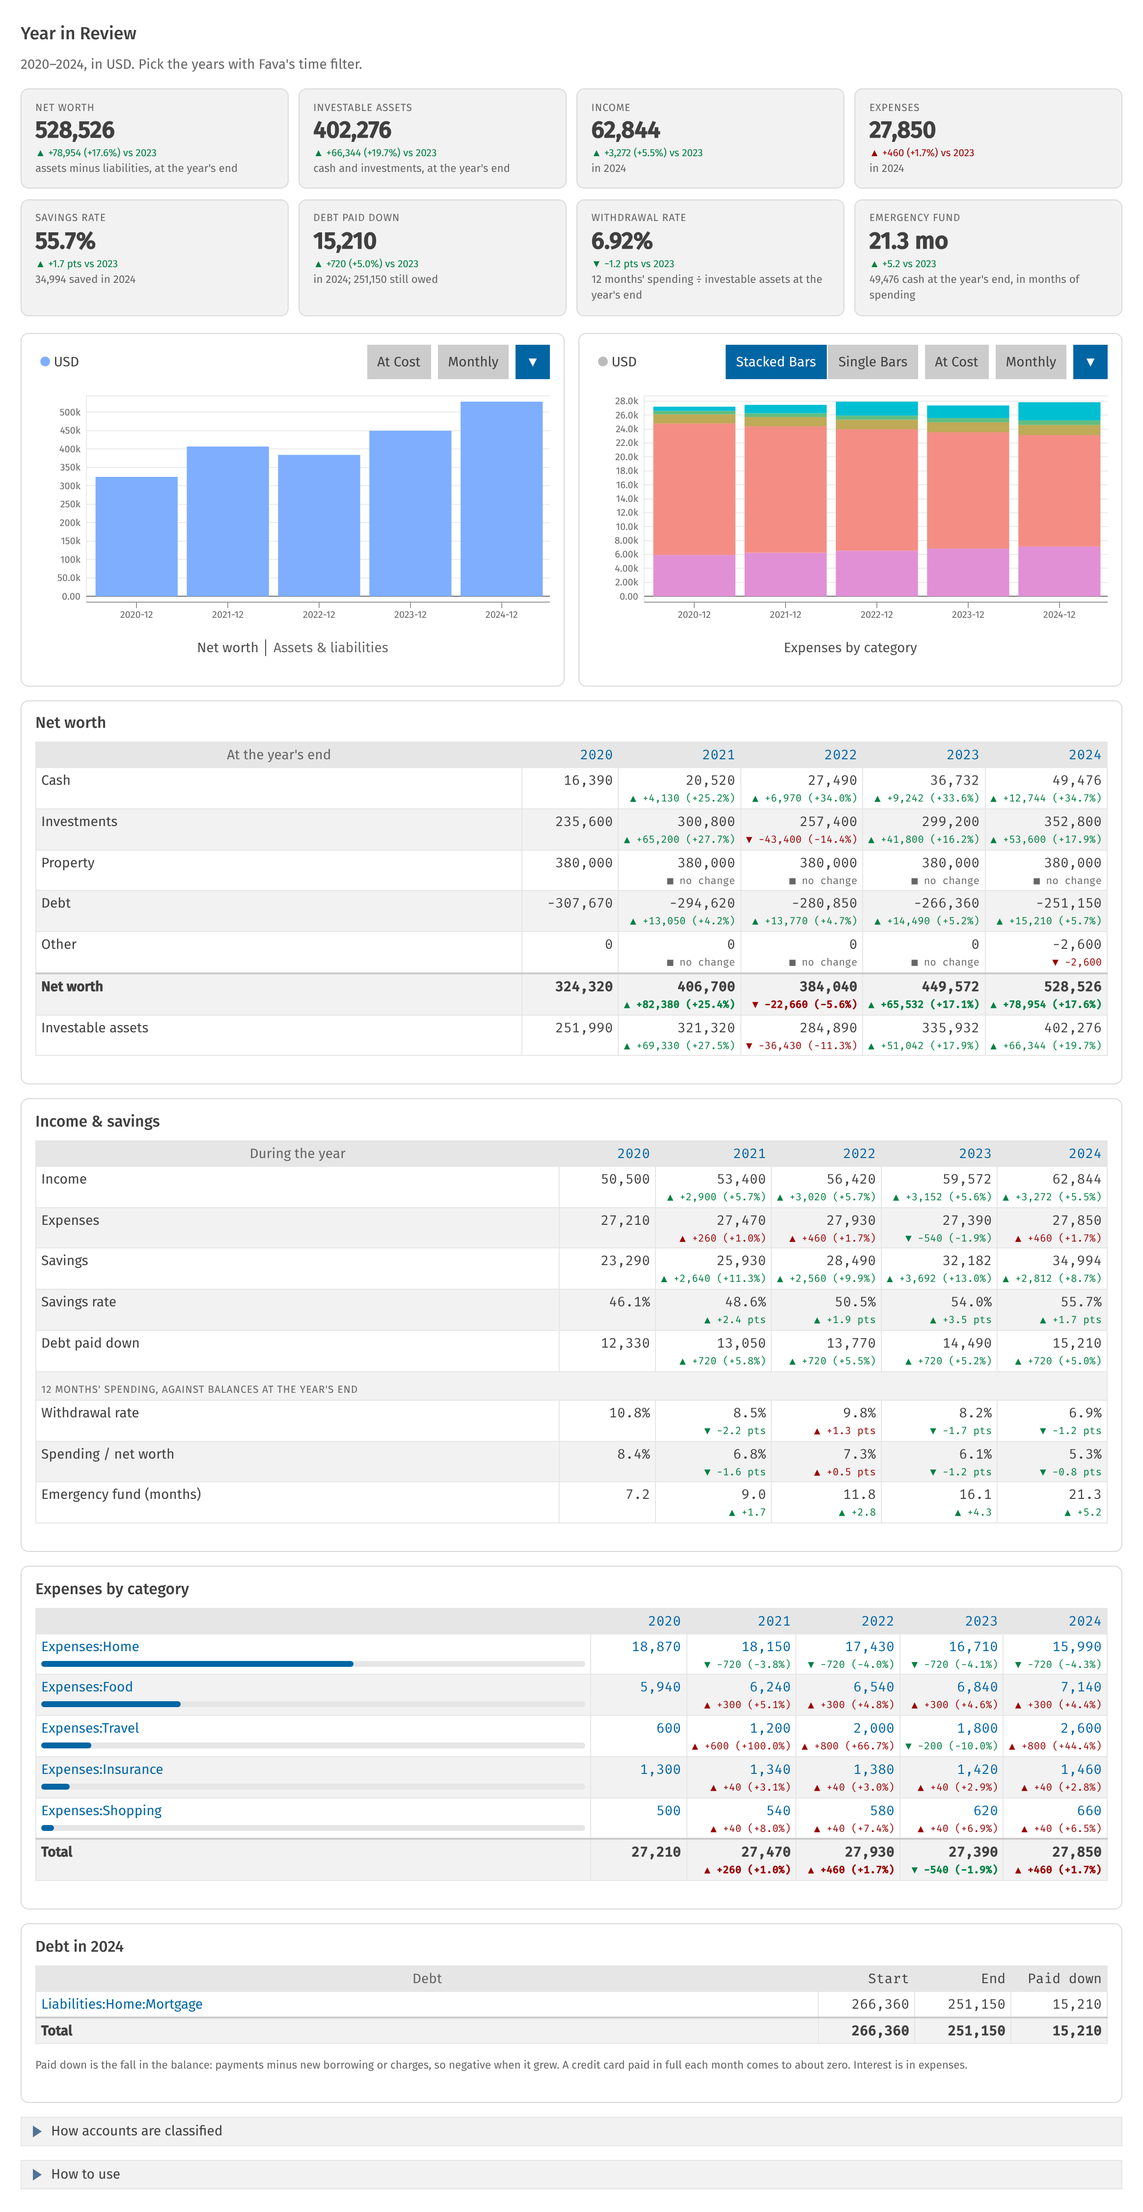
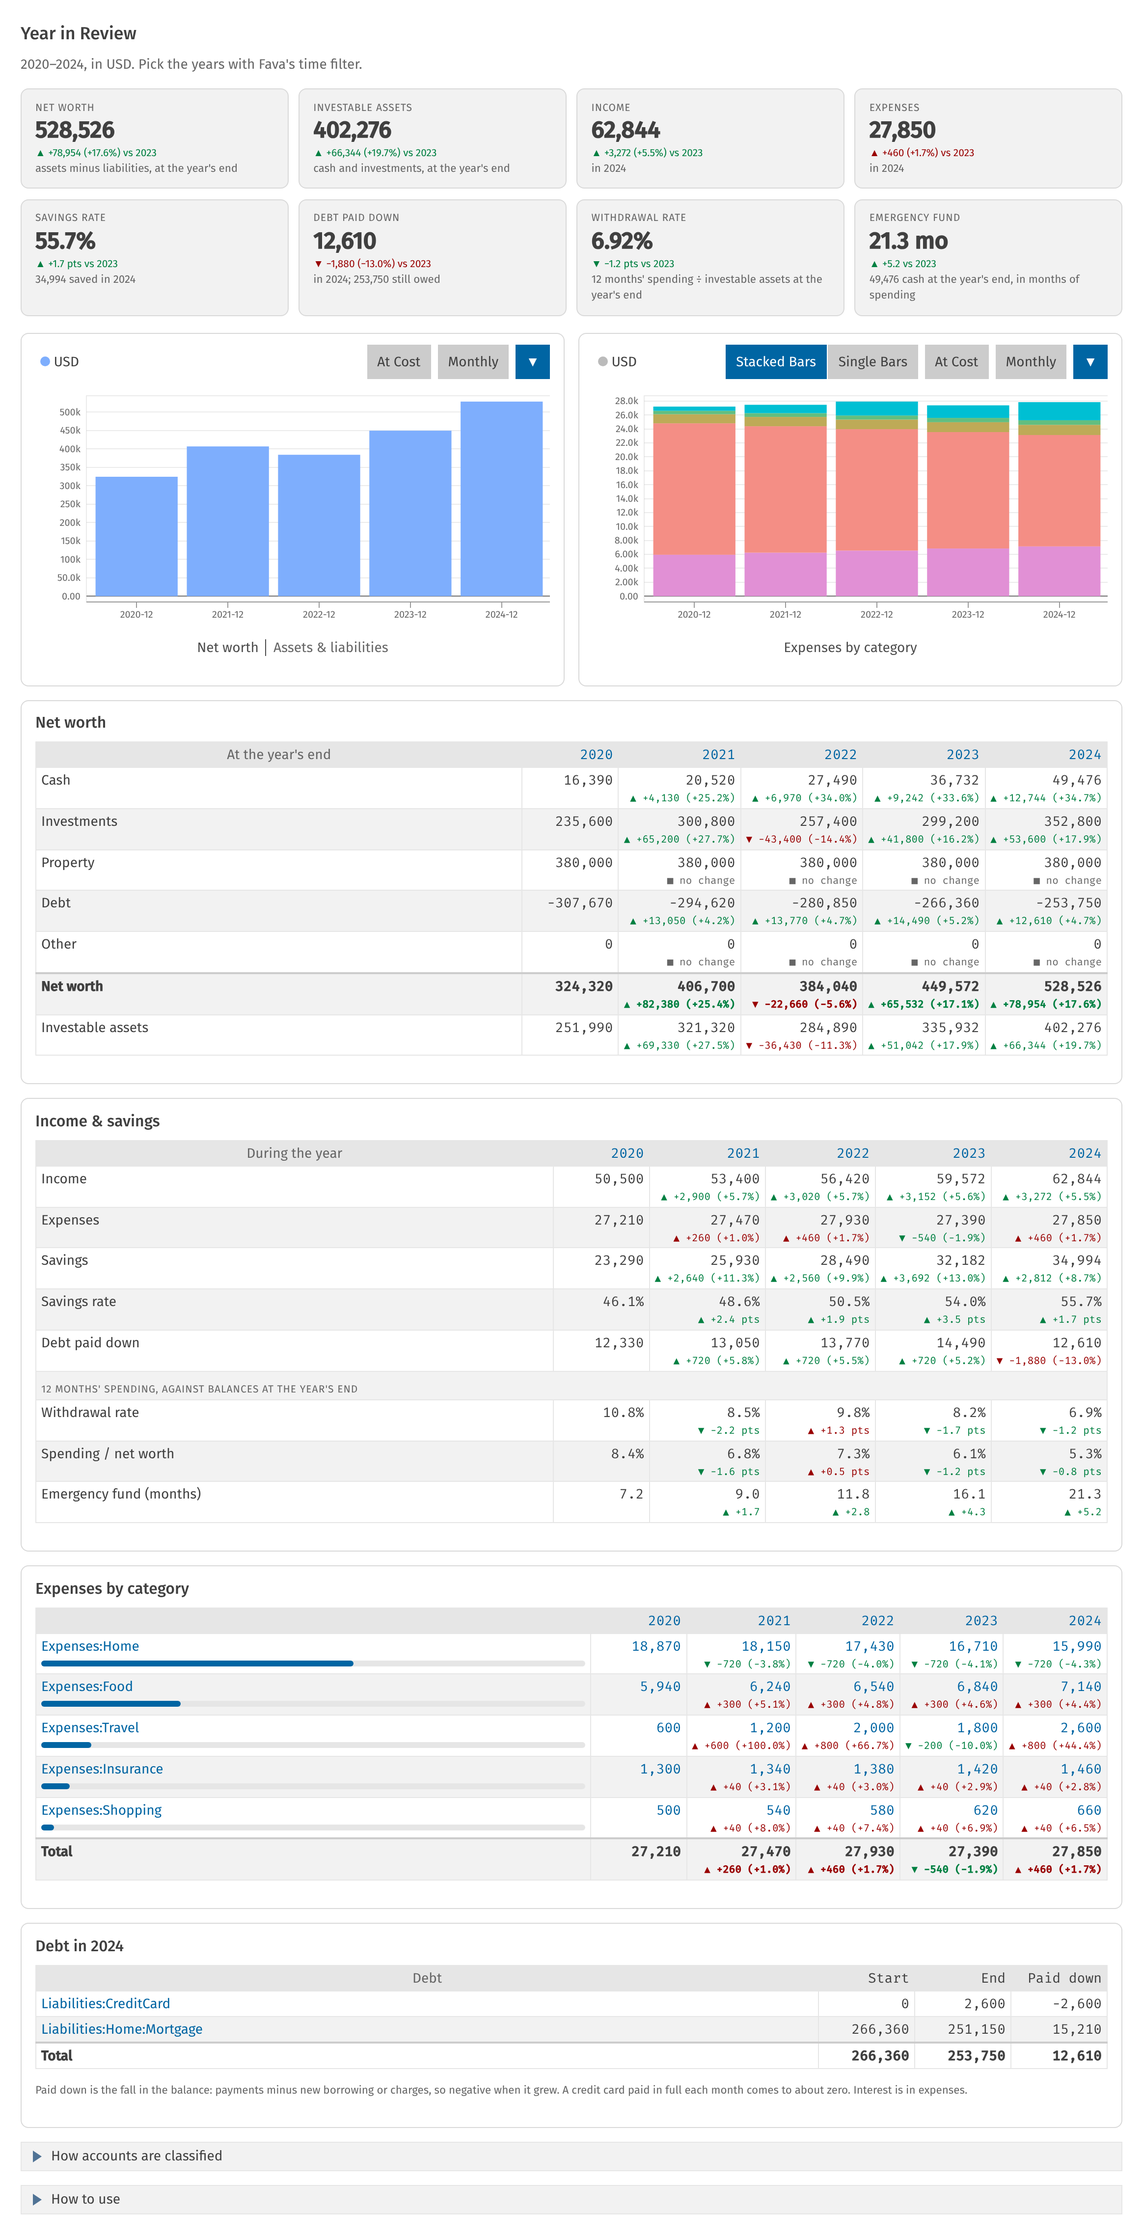
Cash Flow: cards stay financing, periods end today, 12-month emergency fund
A credit card's financing line is its net change, so a card paid in full nets
to about zero without declaring it operating; the example ledger no longer
does. A time filter ends today at the latest. The emergency fund uses the 12
months of spending up to the period's end, whatever the period, and names the
savings accounts it leaves out.

Claude-Session: https://claude.ai/code/session_01KmgJLZjK5mttXsmcq9tafp

diff --git a/src/beancount_sg/ext/cash_flow/templates/CashFlow.html b/src/beancount_sg/ext/cash_flow/templates/CashFlow.html
@@ -88,10 +88,10 @@
   </div>
   {% set months = result.months_of_cash() %}
   {% set spendable = result.months_of_cash(savings=false) %}
-  <div class="cf-card" title="Cash at the end, divided by the period's average monthly spending">
+  <div class="cf-card" title="Cash at the end, divided by average monthly spending over the 12 months up to it ({{ result.trailing_start }} to {{ result.end - extension.one_day }})">
     <div class="cf-card-label">Emergency fund</div>
     <div class="cf-card-value">{% if months is none %}&mdash;{% else %}{{ '%.1f'|format(months) }} mo{% endif %}</div>
-    <div class="cf-note">of spending ({{ extension.balance(result.monthly_expenses) }}/mo){% if spendable is not none %}; {{ '%.1f'|format(spendable) }} mo without savings accounts{% endif %}</div>
+    <div class="cf-note">of the last 12 months' spending ({{ extension.balance(result.monthly_expenses) }}/mo){% if spendable is not none and result.savings_accounts %}; {{ '%.1f'|format(spendable) }} mo without {{ result.savings_accounts|join(', ') }}{% endif %}</div>
   </div>
 </div>
 
@@ -180,20 +180,20 @@
 <details>
   <summary>How to use</summary>
   <ul>
-    <li>The period is Fava's time filter, or the last 12 months (this month and the 11 before)
-      without one. Fava's account and advanced filters apply, as on Fava's own reports.</li>
+    <li>The period is Fava's time filter, up to today, or the last 12 months (this month and the
+      11 before) without one. Fava's account and advanced filters apply, as on Fava's own
+      reports.</li>
     <li>Each line is an account's effect on cash: money in is positive, money out negative. So
       investing −9,640 means 9,640 more was invested than withdrawn, and financing −5,000 that
       5,000 more was repaid than borrowed. Only operating cash is green (a surplus) or red (a
       deficit): investing and financing aren't good or bad by their sign. Income and expenses are
       rolled up to their top-level category, e.g. <code>Expenses:Food</code>.</li>
-    <li>The <em>emergency fund</em> is cash at the end, in months of the period's average spending;
-      also without accounts named Savings, i.e. the money on hand to spend.</li>
-    <li><strong>Declare credit cards <code>operating</code></strong>: the default for every
-      liability, cards included, is <code>financing</code>, so card spending would show as borrowing
-      (financing in) and paying the card as repaying it (financing out). As <code>operating</code>,
-      a card's balance change sits beside the spending it paid for, and financing is left to
-      loans.</li>
+    <li>The <em>emergency fund</em> is cash at the end, in months of average spending over the 12
+      months up to it, whatever the period; also without accounts named Savings, i.e. the money
+      on hand to spend.</li>
+    <li>Credit cards are <code>financing</code>, like any liability: spending on a card is in
+      operating, by category, and the card's line in financing is its net change. A card paid in
+      full nets to about zero; one carrying a balance shows as borrowing or repaying it.</li>
     <li>Values are in the first operating currency, rounded to whole units: flows at each
       transaction's date, cash at market value at the start and end. A <em>change in value</em>
       line shows any difference, e.g. from exchange rates.</li>

diff --git a/src/beancount_sg/ext/cash_flow/statement.py b/src/beancount_sg/ext/cash_flow/statement.py
@@ -16,9 +16,11 @@ value then: the difference, if any (e.g. from exchange rates moving while cash i
 held in another currency), is shown as its own line, so the statement always
 reconciles.
 
-The statement also totals the period's spending (its expense accounts), for the
-emergency fund: how many months of average spending cash at the end covers, with
-and without cash accounts named Savings.
+The statement also totals the spending (expense accounts) over the 12 months up
+to the period's end, for the emergency fund: how many months of that average
+spending cash at the end covers, with and without cash accounts named Savings.
+It uses 12 months whatever the period, so a short or partial period doesn't make
+it seasonal.
 """
 
 from __future__ import annotations
@@ -51,7 +53,6 @@ ACTIVITIES = (OPERATING, INVESTING, FINANCING)
 ONE_DAY = datetime.timedelta(days=1)
 # Cash accounts that hold savings, rather than money to spend, by name.
 SAVINGS_NAMES = re.compile(r"savings", re.IGNORECASE)
-DAYS_PER_MONTH = Decimal("365.25") / 12
 
 
 @dataclass
@@ -71,8 +72,8 @@ class Statement:
     # Cash accounts' values at the start and end.
     cash_start: dict[str, Decimal] = field(default_factory=dict)
     cash_end: dict[str, Decimal] = field(default_factory=dict)
-    # Spending over the period: the expense accounts' total.
-    expenses: Decimal = Decimal(0)
+    # Spending over the 12 months up to the end: the expense accounts' total.
+    trailing_expenses: Decimal = Decimal(0)
     unconverted: set[str] = field(default_factory=set)
 
     def lines(self, activity: str) -> list[tuple[str, Decimal]]:
@@ -102,24 +103,35 @@ class Statement:
         return self.cash_end_total - self.cash_start_total - self.net_change
 
     @property
+    def trailing_start(self) -> datetime.date:
+        """The first day of the 12 months up to the end."""
+        return _year_before(self.end)
+
+    @property
     def monthly_expenses(self) -> Decimal:
-        """Average spending per month over the period."""
-        return self.expenses / (Decimal((self.end - self.begin).days) / DAYS_PER_MONTH)
+        """Average spending per month over the 12 months up to the end."""
+        return self.trailing_expenses / 12
+
+    @property
+    def savings_accounts(self) -> list[str]:
+        """The cash accounts named Savings with a balance at the end."""
+        return sorted(
+            account
+            for account, value in self.cash_end.items()
+            if value and SAVINGS_NAMES.search(account)
+        )
 
     def months_of_cash(self, *, savings: bool = True) -> Decimal | None:
-        """How many months of the period's average spending cash at the end covers.
+        """How many months of average spending (see `monthly_expenses`) cash at the end covers.
 
         Without ``savings``, only cash accounts not named Savings: the money on
         hand to spend.
         """
         if self.monthly_expenses <= 0:
             return None
+        excluded = set() if savings else set(self.savings_accounts)
         cash = sum(
-            (
-                value
-                for account, value in self.cash_end.items()
-                if savings or not SAVINGS_NAMES.search(account)
-            ),
+            (value for account, value in self.cash_end.items() if account not in excluded),
             Decimal(0),
         )
         return cash / self.monthly_expenses
@@ -132,6 +144,13 @@ class Statement:
             for account in self.cash_start.keys() | self.cash_end.keys()
             if self.cash_start.get(account) or self.cash_end.get(account)
         )
+
+
+def _year_before(date: datetime.date) -> datetime.date:
+    """The same day a year earlier (February 28th for February 29th)."""
+    if (date.month, date.day) == (2, 29):
+        return date.replace(year=date.year - 1, day=28)
+    return date.replace(year=date.year - 1)
 
 
 def role_of(account: str, roles: Mapping[str, Role], account_types: AccountTypes) -> str:
@@ -160,6 +179,7 @@ def statement(
     result = Statement(begin, end, currency)
     start_balances: dict[str, Inventory] = defaultdict(Inventory)
     end_balances: dict[str, Inventory] = defaultdict(Inventory)
+    trailing_start = result.trailing_start
     for txn in entries:
         if not isinstance(txn, Transaction) or txn.date >= end:
             continue
@@ -169,12 +189,20 @@ def statement(
                 end_balances[posting.account].add_position(posting)
                 if txn.date < begin:
                     start_balances[posting.account].add_position(posting)
-            elif txn.date >= begin:
-                value = posting_value(posting, currency, price_map, txn.date, result.unconverted)
+                continue
+            in_period = txn.date >= begin
+            spent = (
+                txn.date >= trailing_start
+                and get_account_type(posting.account) == account_types.expenses
+            )
+            if not in_period and not spent:
+                continue
+            value = posting_value(posting, currency, price_map, txn.date, result.unconverted)
+            if in_period:
                 # Money into the account is money out of cash, and the reverse.
                 result.sections[role][line_of(posting.account, account_types)] -= value
-                if get_account_type(posting.account) == account_types.expenses:
-                    result.expenses += value
+            if spent:
+                result.trailing_expenses += value
     result.cash_start = market_values(
         start_balances, currency, price_map, begin - ONE_DAY, result.unconverted
     )

diff --git a/tests/ext/test_cash_flow.py b/tests/ext/test_cash_flow.py
@@ -64,8 +64,29 @@ def test_cards_say_what_each_total_means(tmp_path):
     assert "investing activities −1,000 net invested" in cards
     assert "financing activities −500 net repaid (loans and cards)" in cards
     assert "Net change in cash +2,900 cash grew: 10,000 → 12,900" in cards
-    # 600 spent in 2024: 49.9 a month, which 12,900 of cash covers 258.5 times.
-    assert "Emergency fund 258.5 mo of spending (50/mo); 258.5 mo without savings accounts" in cards
+    # 600 spent in the 12 months up to today: 50 a month, which 12,900 of cash covers 258 times.
+    assert "Emergency fund 258.0 mo of the last 12 months' spending (50/mo)" in cards
+    assert "without" not in cards  # no savings accounts
+
+
+def test_the_emergency_fund_names_the_savings_accounts_it_leaves_out(tmp_path):
+    ledger = (
+        LEDGER
+        + """
+2020-01-01 open Assets:Bank:Savings USD
+2023-12-31 * "Savings"
+  Assets:Bank:Savings  6000 USD
+  Equity:Opening
+"""
+    )
+    body = text(page(tmp_path, ledger, query="?time=2024"))
+    assert "Emergency fund 378.0 mo of the last 12 months' spending (50/mo);" in body
+    assert "258.0 mo without Assets:Bank:Savings" in body
+
+
+def test_a_time_filter_ends_today(tmp_path):
+    # Today is 2024-09-30, so 2024 is year-to-date.
+    assert "2024-01-01 to 2024-09-30, in USD." in text(page(tmp_path, query="?time=2024"))
 
 
 def test_only_operating_cash_is_colored(tmp_path):
@@ -105,7 +126,7 @@ def test_lines_link_to_their_accounts_for_the_period(tmp_path):
     [href] = re.findall(r'<a href="([^"]+)">Assets:Brokerage</a>', body)
     url = urlsplit(html.unescape(href))
     assert unquote(url.path) == "/test/account/Assets:Brokerage/"
-    assert parse_qs(url.query)["time"] == ["2024-01-01 - 2024-12-31"]
+    assert parse_qs(url.query)["time"] == ["2024-01-01 - 2024-09-30"]  # up to today
 
 
 def test_chart(tmp_path):
@@ -118,8 +139,7 @@ def test_chart(tmp_path):
     assert [bar["date"] for bar in chart["data"]] == [
         "2024-03-31",
         "2024-06-30",
-        "2024-09-30",
-        "2024-12-31",
+        "2024-09-30",  # up to today
     ]
     assert chart["data"][0]["account_balances"] == {
         "Operating": {"USD": "4600"},

diff --git a/src/beancount_sg/ext/cash_flow/__init__.py b/src/beancount_sg/ext/cash_flow/__init__.py
@@ -11,13 +11,13 @@ cash (accounts with the ``cash`` role) over the period by every other account's
 flows, in operating, investing and financing sections; see
 `beancount_sg.ext.cash_flow.statement`.
 
-The period is Fava's time filter, or the last 12 months without one. Fava's
+The period is Fava's time filter, up to today, or the last 12 months without one. Fava's
 account and advanced filters apply, as on Fava's own reports. The page has:
 
 - Cards with each activity's total and what it means (e.g. investing -9,640 is
   "net invested"), the net change in cash, and the emergency fund: how many
-  months of the period's average spending cash covers, with and without savings
-  accounts. Only operating cash is colored, green for a surplus and red for a
+  months of average spending over the last 12 months cash covers, with and
+  without savings accounts. Only operating cash is colored, green for a surplus and red for a
   deficit: investing and financing flows aren't good or bad by their sign.
 - The statement: each activity's lines and total, and the net change in cash.
 - A chart of each activity's flows per interval (Fava's interval menu).
@@ -106,12 +106,13 @@ class CashFlow(FavaExtensionBase):
     def period(self) -> tuple[datetime.date, datetime.date]:
         """Fava's time filter, or the last 12 months: the first day, and the day after the last.
 
-        The last 12 months are this month to date and the 11 before it.
+        The last 12 months are this month to date and the 11 before it. A time
+        filter ends today at the latest, e.g. this year is year-to-date.
         """
+        today = local_today()
         date_range = g.filtered.date_range
         if date_range:
-            return date_range.begin, date_range.end
-        today = local_today()
+            return date_range.begin, max(date_range.begin, min(date_range.end, today + ONE_DAY))
         months = today.year * 12 + today.month - 1 - 11
         return datetime.date(months // 12, months % 12 + 1, 1), today + ONE_DAY
 

diff --git a/tests/ext/test_cash_flow_statement.py b/tests/ext/test_cash_flow_statement.py
@@ -130,11 +130,26 @@ def test_emergency_fund():
 """
     )
     result = run(ledger)
-    # 600 spent over 2024's 366 days.
-    assert result.expenses == 600
-    assert result.monthly_expenses == Decimal(600) / (Decimal(366) / (Decimal("365.25") / 12))
-    assert result.months_of_cash() == (12900 + 6000) / result.monthly_expenses
-    assert result.months_of_cash(savings=False) == 12900 / result.monthly_expenses
+    # The 12 months up to the end are 2024: 600 spent, 50 a month.
+    assert result.trailing_start == BEGIN
+    assert (result.trailing_expenses, result.monthly_expenses) == (600, 50)
+    assert result.savings_accounts == ["Assets:Bank:Savings"]
+    assert result.months_of_cash() == Decimal(12900 + 6000) / 50
+    assert result.months_of_cash(savings=False) == Decimal(12900) / 50
+
+
+def test_emergency_fund_uses_12_months_whatever_the_period():
+    # September alone has no spending, but the 12 months up to its end do: groceries, dining
+    # and interest from February and August.
+    result = run(begin=datetime.date(2024, 9, 1), end=datetime.date(2024, 10, 1))
+    assert result.trailing_start == datetime.date(2023, 10, 1)
+    assert result.trailing_expenses == 600
+    assert result.lines(OPERATING) == []
+
+
+def test_the_12_months_before_february_29th():
+    result = run(begin=datetime.date(2028, 2, 1), end=datetime.date(2028, 2, 29))
+    assert result.trailing_start == datetime.date(2027, 2, 28)
 
 
 def test_by_interval():

diff --git a/docs/fava/cash-flow.md b/docs/fava/cash-flow.md
@@ -33,7 +33,7 @@ What each section's total means:
 | --- | --- | --- |
 | **Operating** | Income exceeded spending: a surplus to save | Spending exceeded income |
 | **Investing** | More withdrawn from investments than put in | More invested than withdrawn |
-| **Financing** | More borrowed than repaid | More repaid (loans, and cards if `financing`) than borrowed |
+| **Financing** | More borrowed than repaid | More repaid (loans and cards) than borrowed |
 
 Only the operating total is colored, green for a surplus and red for a deficit, since that's
 clearly good or bad. Investing and financing aren't: a negative investing total is money out of
@@ -42,18 +42,13 @@ cash, but it's savings going into investments.
 Without a declared role (a parent's applies to its subaccounts), assets named with Cash, Checking,
 Savings or Bank are `cash`, other assets `investing`, liabilities and equity `financing`, and
 income and expenses `operating`. A declared value that isn't a role (e.g. a typo) is reported as
-an error and ignored. The page's "How accounts are classified" section lists each account's role and where it came from.
+an error and ignored. The page's "How accounts are classified" section lists each account's role
+and where it came from.
 
-**Declare credit cards `operating`.** The default for every liability, credit cards included, is
-`financing`: the convention doesn't single cards out, and neither does this report's inference. So
-by default, card spending shows as borrowing (financing in) and paying the card off as repaying it
-(financing out), which mixes everyday spending into financing. Declared `operating`, a card's
-balance change sits beside the spending it paid for, and financing is left to loans:
-
-```beancount
-2020-01-01 open Liabilities:CreditCard:Visa
-  cash-flow-role: "operating"
-```
+**Credit cards** are `financing`, like any liability. Spending on a card is in operating, by
+expense category, and the card's line in financing is only its net change over the period:
+charges minus payments. A card paid in full each month nets to about zero; one carrying a balance
+shows as borrowing, or as repaying it.
 
 ## Reconciliation
 
@@ -65,15 +60,17 @@ held in another currency, a **change in value** line shows the difference.
 
 ## Emergency fund
 
-How many months of spending your cash covers: cash at the end of the period, divided by the
-period's average monthly spending (its expenses). It's also shown without cash accounts named
-Savings, i.e. counting only the money on hand to spend.
+How many months of spending your cash covers: cash at the end of the period, divided by average
+monthly spending (expenses) over the 12 months up to it. It uses 12 months whatever the period, so
+a month's filter or a year-to-date year doesn't make it seasonal. It's also shown without cash
+accounts named Savings, i.e. counting only the money on hand to spend; the card names the
+accounts left out.
 
 ## Period and filters
 
 The period is Fava's time filter, or the last 12 months (this month to date and the 11 before it)
-without one. Fava's account and advanced
-filters apply, as on Fava's own reports.
+without one. A time filter ends today at the latest, so this year is year-to-date. Fava's account
+and advanced filters apply, as on Fava's own reports.
 
 The chart shows each activity's flows per interval, from the chart's interval menu (e.g. monthly).
 Click a bar's date for that interval, or part of a bar for the income statement (operating) or
